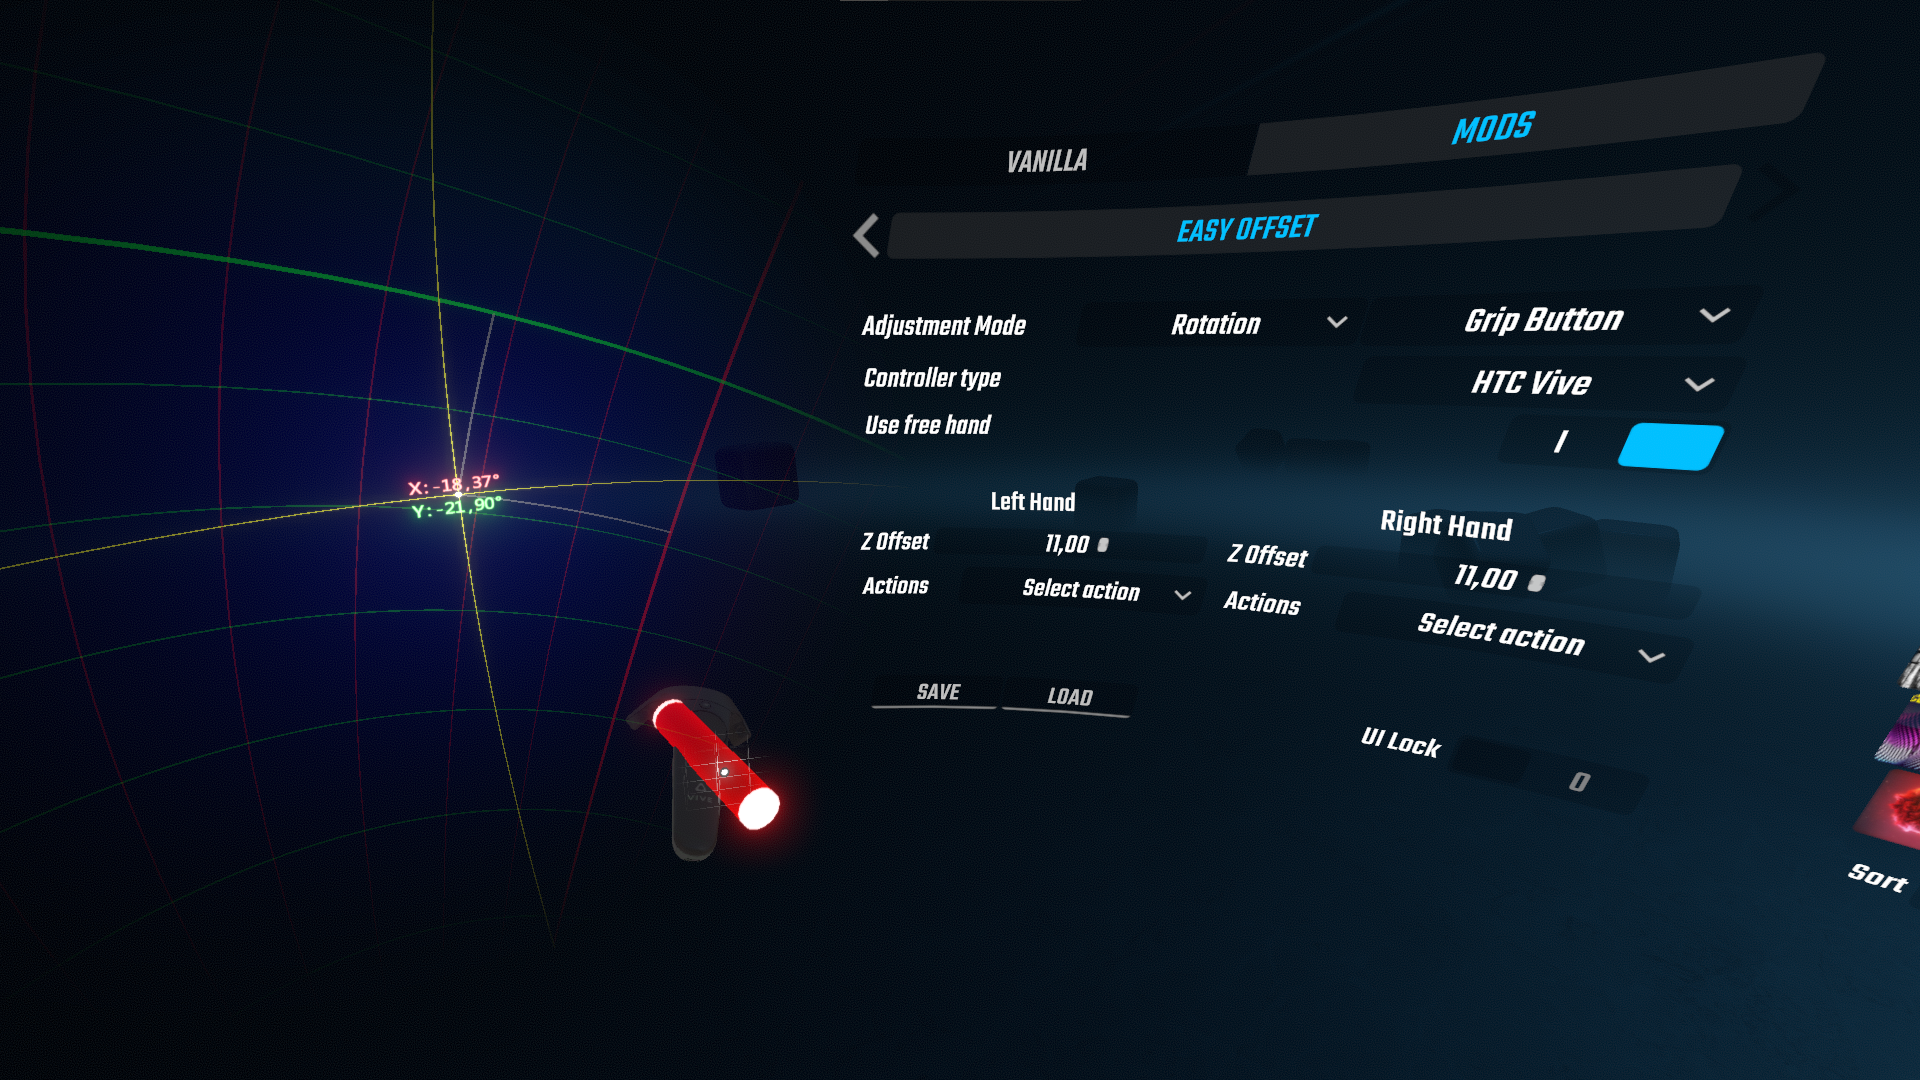
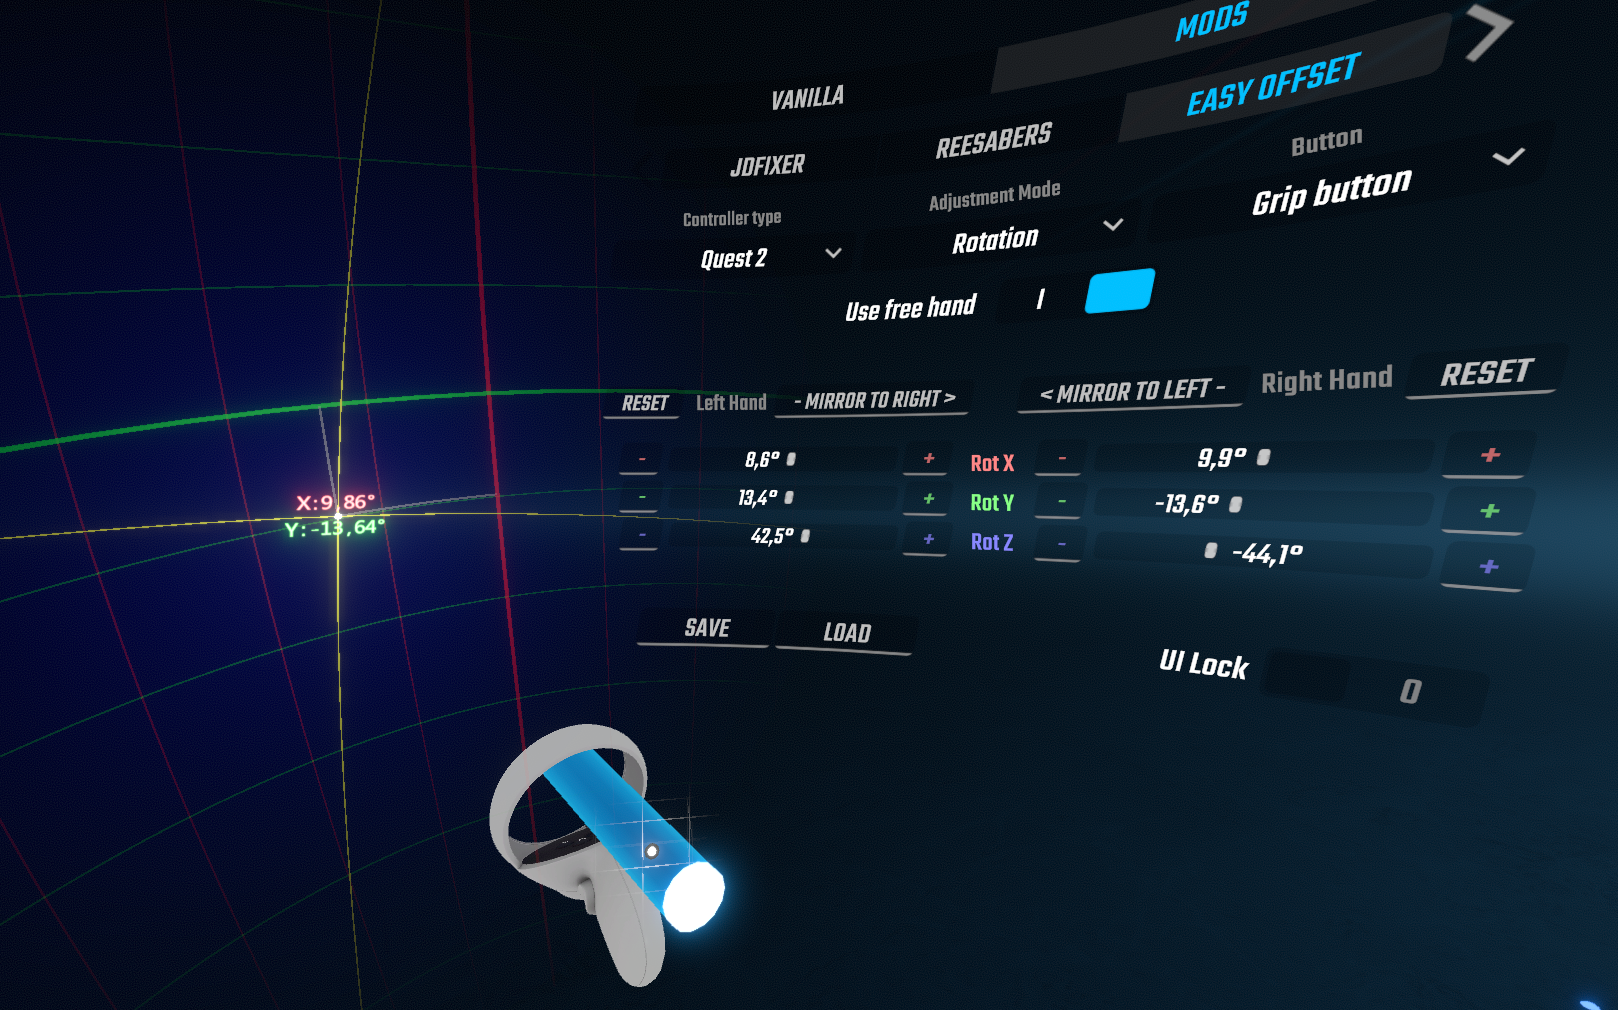
Readme v2

diff --git a/README.md b/README.md
@@ -1,8 +1,6 @@
 # Easy Offset
 
-Beat Saber mod for intuitive controller offset adjustments.
-
-Tired from a pile of magic config numbers? Find the best offset for your grip just by moving your hand!
+Beat Saber mod for intuitive controller offset adjustments. Suitable for both beginners and advanced players
 
 - [How to use](https://github.com/Reezonate/EasyOffset#how-to-use)
 - [Config migration](https://github.com/Reezonate/EasyOffset#config-migration)
@@ -71,29 +69,32 @@ Tired from a pile of magic config numbers? Find the best offset for your grip ju
 - Refresh profiles list and load `EasyOffsetExported` profile
 
 # How to use
-Before trying to find your best config, spend some time in different modes and experiment with the tools at your disposal
-
 ### Config values:
 
-- `Pivot point` - saber origin position relative to the controller (Displayed as a white dot surrounded by a grid)
-- `Direction vector` - saber tip position relative to `Pivot point`
-- `ZOffset` - saber position offset along `Direction vector`
+- `Pivot point` - saber origin position relative to the controller. Displayed as a white dot surrounded by a grid
+- `Saber Rotation` - saber rotation euler angles
+- `ZOffset` - saber position offset along its axis
+
+Config values are different from the base game settings, SaberTailor, etc.
 
 ### First steps:
 - Select your controller model in the `Controller Type` list
 - Choose a button you can press without changing your grip
 - If there is no such button, check the `Use Free Hand` toggle to use the button on the other hand
 
+Before trying to find your best config, spend some time in different adjustment modes and experiment with the tools at your disposal
+
 ### To get a decent config, you have to achieve two goals:
 
 - `Pivot point` should be stable as the wrist rotates. In other words - it should be aligned with your actual wrist pivot point as much as possible
 - Saber trail shouldn't move in a huge circle while you pointing forward and rolling your wrist comfortably. The smaller the radius, the better
 
-To help you achieve these goals, there are four adjustment modes:
+To help you achieve these goals, there are five main adjustment modes:
 
 - [Basic](https://github.com/Reezonate/EasyOffset#basic-adjustment-mode)
 - [Position](https://github.com/Reezonate/EasyOffset#position-adjustment-mode)
 - [Rotation](https://github.com/Reezonate/EasyOffset#rotation-adjustment-mode)
+- [Precise](https://github.com/Reezonate/EasyOffset#precise-adjustment-mode)
 - [Swing Benchmark](https://github.com/Reezonate/EasyOffset#swing-benchmark-adjustment-mode)
 
 ## `Basic` adjustment mode:
@@ -103,7 +104,7 @@ To help you achieve these goals, there are four adjustment modes:
 Simple drag and drop adjustment mode
 
 - Select `Basic` in the `Adjustment Mode` list
-- While holding the selected button, move your hand and pick up the saber in a new position by releasing the button
+- Press the selected button, move your hand to a new position, release the button
 - You can move the saber along its axis using the `ZOffset` slider
 
 ![Basic mode image](media/Basic.png)
@@ -114,14 +115,14 @@ Simple drag and drop adjustment mode
 ```
 Position only adjustment mode. Displays `Pivot point` coordinates in centimeters
 
-Allows you to change the `Pivot point` without changing the `Direction vector`
+Allows you to change the `Pivot point` without changing `Saber Rotation`
 
 - Select `Position` in the `Adjustment Mode` list
 - Align the `Pivot point` with your wrist pivot point. You can see where it is relative to the controller IRL
-- World-aligned 3D grid serves as a stationary reference to track `Pivot point` movement.
-  Keeping it in one cell regardless of wrist rotation is good enough
-- You can move the saber along its axis using the `ZOffset` slider
 
+- You can move the saber along its axis using the `ZOffset` slider 
+
+World-aligned 3D grid serves as a stationary reference to track `Pivot point` movement. Keeping it in one cell regardless of wrist rotation is good enough
 ![Position mode preview](media/Position.png)
 
 ## `Rotation` adjustment mode:
@@ -129,9 +130,9 @@ Allows you to change the `Pivot point` without changing the `Direction vector`
 - Advanced: An understanding of how the saber rotation affects your swing is required
 ```
 
-Rotation only adjustment mode. Displays `Direction Vector` in spherical coordinates. Best used with `Use Free Hand` enabled
+Rotation only adjustment mode. Displays `Saber Rotation` on a spherical grid. Best used with the `Use Free Hand` enabled
 
-Allows you to change the `Direction vector` without changing the `Pivot point`
+Allows you to change the `Saber Rotation` without changing the `Pivot point`
 
 - Select `Rotation` in the `Adjustment Mode` list
 - Point forward with your palm facing down and press the button
@@ -142,6 +143,19 @@ Allows you to change the `Direction vector` without changing the `Pivot point`
 You can raise/lower your free hand to zoom in/out
 
 ![Rotation mode preview](media/Rotation.png)
+
+## `Precise` adjustment mode:
+``` diff
+- Expert: Deep understanding of each config value is required
+```
+Mode for final tweaks that allows independent control over all config values with extreme precision
+
+- Select `Precise` in the `Adjustment Mode` list
+- Click on slider and hold the trigger to change its value (The longer you it, the faster the value changes)
+- Use the opposite hand to see the changes in real time, otherwise the changes will only be applied when the trigger is released
+- Use increment/decrement buttons for the tiny adjustments
+
+![Precise mode preview](media/Precise.png)
 
 ## `Swing Benchmark` adjustment mode:
 ``` diff
@@ -155,6 +169,9 @@ Results will gradually change from vertical to horizontal swing. Optimize your c
 - Repeat one exact swing several times while holding the button
 - Stand still, look forward, and swing exactly as you do in-game
 - Swing angle of at least 140° is required
+
+
+Note that due to swing inconsistencies, the suggested "Auto-fix" may not be perfect
 
 Calculation error mostly depends on a `Tip wobble` (smaller is better) and `Angle` (higher is better). The more repeatable your swings are, the more precise result you'll get
 
@@ -172,7 +189,7 @@ Indicates how straight your swing is
 How to improve:
 
 - You can reduce it manually in the `Rotation` mode (A special reference line will appear after the test)
-- You can completely remove it automatically by pressing the `Apply rotation fix` button. This action will change your config, backup if you're not sure!
+- You can reduce it automatically by pressing the `Apply rotation fix` button. This action will change your config, backup if you're not sure!
 - Straight swing requires fairly wide hand placement, which may feel uncomfortable at first if you had a big outward curve
 
 ### `Tip Wobble` measurement
@@ -216,7 +233,7 @@ How to improve:
 - Config-breaking: Drastically changes your config. Save the preset to have a backup
 ```
 
-Automatic calculation of the `Direction vector` based on your movement. Great for getting initial values for a new grip, requires manual tweaking in `Rotation` mode afterward.
+Automatic calculation of the `Saber Rotation` based on your movement. Great for getting initial values for a new grip, requires manual tweaking in `Rotation` mode afterward.
 Affects only rotation, doesn't change the position values
 
 - Select `Rotation Auto` in the `Adjustment Mode` list
@@ -235,5 +252,6 @@ World pulling locomotion in Beat Saber! This mode uses base game room offset set
 - Select `Room offset` in the `Adjustment Mode` list
 - Hold the button and pull or push the world around you
 - To move only vertically, disable X and Z axles
+- To move only horizontally, disable Y axis
 
-Useful for quick floor level alignment. Just put one controller on the floor and use its model as a reference
+Useful for getting consistent player height. Disable an in-game auto height calculation and use your preferred hmd Y position as a reference for future tweaks
